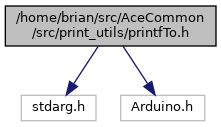
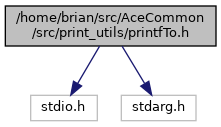
docs: Regenerate doxygen docs for v1.1.2

diff --git a/docs/html/printfTo_8h_source.html b/docs/html/printfTo_8h_source.html
@@ -22,7 +22,7 @@
  <tr style="height: 56px;">
   <td id="projectalign" style="padding-left: 0.5em;">
    <div id="projectname">AceCommon
-   &#160;<span id="projectnumber">1.1.1</span>
+   &#160;<span id="projectnumber">1.1.2</span>
    </div>
    <div id="projectbrief">Arduino library for low-level common functions and features with no external dependencies</div>
   </td>
@@ -76,36 +76,38 @@ $(function() {
 <div class="line"><a name="l00003"></a><span class="lineno">    3</span>&#160;<span class="comment"> * Copyright (c) 2018 Brian T. Park</span></div>
 <div class="line"><a name="l00004"></a><span class="lineno">    4</span>&#160;<span class="comment"> */</span></div>
 <div class="line"><a name="l00005"></a><span class="lineno">    5</span>&#160; </div>
-<div class="line"><a name="l00027"></a><span class="lineno">   27</span>&#160;<span class="preprocessor">#ifndef PRINT_UTILS_PRINTF_TO_H</span></div>
-<div class="line"><a name="l00028"></a><span class="lineno">   28</span>&#160;<span class="preprocessor">#define PRINT_UTILS_PRINTF_TO_H</span></div>
-<div class="line"><a name="l00029"></a><span class="lineno">   29</span>&#160; </div>
-<div class="line"><a name="l00030"></a><span class="lineno">   30</span>&#160;<span class="preprocessor">#include &lt;stdarg.h&gt;</span></div>
-<div class="line"><a name="l00031"></a><span class="lineno">   31</span>&#160;<span class="preprocessor">#include &lt;Arduino.h&gt;</span></div>
-<div class="line"><a name="l00032"></a><span class="lineno">   32</span>&#160; </div>
-<div class="line"><a name="l00033"></a><span class="lineno">   33</span>&#160;<span class="keyword">namespace </span>ace_common {</div>
-<div class="line"><a name="l00034"></a><span class="lineno">   34</span>&#160; </div>
-<div class="line"><a name="l00036"></a><span class="lineno"><a class="line" href="printfTo_8h.html#aeee5840791173d6b3005363ca8a46f77">   36</a></span>&#160;<span class="keyword">const</span> <span class="keywordtype">int</span> <a class="code" href="printfTo_8h.html#aeee5840791173d6b3005363ca8a46f77">PRINTF_TO_BUF_SIZE</a> = 192;</div>
-<div class="line"><a name="l00037"></a><span class="lineno">   37</span>&#160; </div>
-<div class="line"><a name="l00039"></a><span class="lineno"><a class="line" href="printfTo_8h.html#a55806a89862d8c7652712c39e763d03c">   39</a></span>&#160;<span class="keyword">inline</span> <span class="keywordtype">void</span> <a class="code" href="printfTo_8h.html#a55806a89862d8c7652712c39e763d03c">vprintfTo</a>(Print&amp; printer, <span class="keyword">const</span> <span class="keywordtype">char</span> *fmt, va_list args) {</div>
-<div class="line"><a name="l00040"></a><span class="lineno">   40</span>&#160;  <span class="keywordtype">char</span> buf[<a class="code" href="printfTo_8h.html#aeee5840791173d6b3005363ca8a46f77">PRINTF_TO_BUF_SIZE</a>];</div>
-<div class="line"><a name="l00041"></a><span class="lineno">   41</span>&#160;  vsnprintf(buf, <a class="code" href="printfTo_8h.html#aeee5840791173d6b3005363ca8a46f77">PRINTF_TO_BUF_SIZE</a>, fmt, args);</div>
-<div class="line"><a name="l00042"></a><span class="lineno">   42</span>&#160;  printer.print(buf);</div>
-<div class="line"><a name="l00043"></a><span class="lineno">   43</span>&#160;}</div>
-<div class="line"><a name="l00044"></a><span class="lineno">   44</span>&#160; </div>
-<div class="line"><a name="l00051"></a><span class="lineno"><a class="line" href="printfTo_8h.html#a949d471f69eb4bc1f18d474e531ac5f3">   51</a></span>&#160;<span class="keyword">inline</span> <span class="keywordtype">void</span> <a class="code" href="printfTo_8h.html#a949d471f69eb4bc1f18d474e531ac5f3">printfTo</a>(Print&amp; printer, <span class="keyword">const</span> <span class="keywordtype">char</span>* fmt, ...) {</div>
-<div class="line"><a name="l00052"></a><span class="lineno">   52</span>&#160;  va_list args;</div>
-<div class="line"><a name="l00053"></a><span class="lineno">   53</span>&#160;  va_start(args, fmt);</div>
-<div class="line"><a name="l00054"></a><span class="lineno">   54</span>&#160;  <a class="code" href="printfTo_8h.html#a55806a89862d8c7652712c39e763d03c">vprintfTo</a>(printer, fmt, args);</div>
-<div class="line"><a name="l00055"></a><span class="lineno">   55</span>&#160;  va_end(args);</div>
-<div class="line"><a name="l00056"></a><span class="lineno">   56</span>&#160;}</div>
-<div class="line"><a name="l00057"></a><span class="lineno">   57</span>&#160; </div>
-<div class="line"><a name="l00058"></a><span class="lineno">   58</span>&#160;}</div>
-<div class="line"><a name="l00059"></a><span class="lineno">   59</span>&#160; </div>
-<div class="line"><a name="l00060"></a><span class="lineno">   60</span>&#160;<span class="preprocessor">#endif</span></div>
+<div class="line"><a name="l00033"></a><span class="lineno">   33</span>&#160;<span class="preprocessor">#ifndef PRINT_UTILS_PRINTF_TO_H</span></div>
+<div class="line"><a name="l00034"></a><span class="lineno">   34</span>&#160;<span class="preprocessor">#define PRINT_UTILS_PRINTF_TO_H</span></div>
+<div class="line"><a name="l00035"></a><span class="lineno">   35</span>&#160; </div>
+<div class="line"><a name="l00036"></a><span class="lineno">   36</span>&#160;<span class="preprocessor">#include &lt;stdio.h&gt;</span> <span class="comment">// vsnprintf()</span></div>
+<div class="line"><a name="l00037"></a><span class="lineno">   37</span>&#160;<span class="preprocessor">#include &lt;stdarg.h&gt;</span> <span class="comment">// va_list, va_start(), va_end()</span></div>
+<div class="line"><a name="l00038"></a><span class="lineno">   38</span>&#160; </div>
+<div class="line"><a name="l00039"></a><span class="lineno">   39</span>&#160;<span class="keyword">class </span>Print;</div>
+<div class="line"><a name="l00040"></a><span class="lineno">   40</span>&#160; </div>
+<div class="line"><a name="l00041"></a><span class="lineno">   41</span>&#160;<span class="keyword">namespace </span>ace_common {</div>
+<div class="line"><a name="l00042"></a><span class="lineno">   42</span>&#160; </div>
+<div class="line"><a name="l00044"></a><span class="lineno"><a class="line" href="printfTo_8h.html#aeee5840791173d6b3005363ca8a46f77">   44</a></span>&#160;<span class="keyword">const</span> <span class="keywordtype">int</span> <a class="code" href="printfTo_8h.html#aeee5840791173d6b3005363ca8a46f77">PRINTF_TO_BUF_SIZE</a> = 192;</div>
+<div class="line"><a name="l00045"></a><span class="lineno">   45</span>&#160; </div>
+<div class="line"><a name="l00047"></a><span class="lineno"><a class="line" href="printfTo_8h.html#a55806a89862d8c7652712c39e763d03c">   47</a></span>&#160;<span class="keyword">inline</span> <span class="keywordtype">void</span> <a class="code" href="printfTo_8h.html#a55806a89862d8c7652712c39e763d03c">vprintfTo</a>(Print&amp; printer, <span class="keyword">const</span> <span class="keywordtype">char</span> *fmt, va_list args) {</div>
+<div class="line"><a name="l00048"></a><span class="lineno">   48</span>&#160;  <span class="keywordtype">char</span> buf[<a class="code" href="printfTo_8h.html#aeee5840791173d6b3005363ca8a46f77">PRINTF_TO_BUF_SIZE</a>];</div>
+<div class="line"><a name="l00049"></a><span class="lineno">   49</span>&#160;  vsnprintf(buf, <a class="code" href="printfTo_8h.html#aeee5840791173d6b3005363ca8a46f77">PRINTF_TO_BUF_SIZE</a>, fmt, args);</div>
+<div class="line"><a name="l00050"></a><span class="lineno">   50</span>&#160;  printer.print(buf);</div>
+<div class="line"><a name="l00051"></a><span class="lineno">   51</span>&#160;}</div>
+<div class="line"><a name="l00052"></a><span class="lineno">   52</span>&#160; </div>
+<div class="line"><a name="l00059"></a><span class="lineno"><a class="line" href="printfTo_8h.html#a949d471f69eb4bc1f18d474e531ac5f3">   59</a></span>&#160;<span class="keyword">inline</span> <span class="keywordtype">void</span> <a class="code" href="printfTo_8h.html#a949d471f69eb4bc1f18d474e531ac5f3">printfTo</a>(Print&amp; printer, <span class="keyword">const</span> <span class="keywordtype">char</span>* fmt, ...) {</div>
+<div class="line"><a name="l00060"></a><span class="lineno">   60</span>&#160;  va_list args;</div>
+<div class="line"><a name="l00061"></a><span class="lineno">   61</span>&#160;  va_start(args, fmt);</div>
+<div class="line"><a name="l00062"></a><span class="lineno">   62</span>&#160;  <a class="code" href="printfTo_8h.html#a55806a89862d8c7652712c39e763d03c">vprintfTo</a>(printer, fmt, args);</div>
+<div class="line"><a name="l00063"></a><span class="lineno">   63</span>&#160;  va_end(args);</div>
+<div class="line"><a name="l00064"></a><span class="lineno">   64</span>&#160;}</div>
+<div class="line"><a name="l00065"></a><span class="lineno">   65</span>&#160; </div>
+<div class="line"><a name="l00066"></a><span class="lineno">   66</span>&#160;}</div>
+<div class="line"><a name="l00067"></a><span class="lineno">   67</span>&#160; </div>
+<div class="line"><a name="l00068"></a><span class="lineno">   68</span>&#160;<span class="preprocessor">#endif</span></div>
 </div><!-- fragment --></div><!-- contents -->
-<div class="ttc" id="aprintfTo_8h_html_a55806a89862d8c7652712c39e763d03c"><div class="ttname"><a href="printfTo_8h.html#a55806a89862d8c7652712c39e763d03c">ace_common::vprintfTo</a></div><div class="ttdeci">void vprintfTo(Print &amp;printer, const char *fmt, va_list args)</div><div class="ttdoc">Helper function for implementing the printfTo() function.</div><div class="ttdef"><b>Definition:</b> <a href="printfTo_8h_source.html#l00039">printfTo.h:39</a></div></div>
-<div class="ttc" id="aprintfTo_8h_html_aeee5840791173d6b3005363ca8a46f77"><div class="ttname"><a href="printfTo_8h.html#aeee5840791173d6b3005363ca8a46f77">ace_common::PRINTF_TO_BUF_SIZE</a></div><div class="ttdeci">const int PRINTF_TO_BUF_SIZE</div><div class="ttdoc">Maximum size of the internal stack buffer used by printfTo().</div><div class="ttdef"><b>Definition:</b> <a href="printfTo_8h_source.html#l00036">printfTo.h:36</a></div></div>
-<div class="ttc" id="aprintfTo_8h_html_a949d471f69eb4bc1f18d474e531ac5f3"><div class="ttname"><a href="printfTo_8h.html#a949d471f69eb4bc1f18d474e531ac5f3">ace_common::printfTo</a></div><div class="ttdeci">void printfTo(Print &amp;printer, const char *fmt,...)</div><div class="ttdoc">A printf() that works on an Arduino Print object using the built-in vsnprintf().</div><div class="ttdef"><b>Definition:</b> <a href="printfTo_8h_source.html#l00051">printfTo.h:51</a></div></div>
+<div class="ttc" id="aprintfTo_8h_html_a55806a89862d8c7652712c39e763d03c"><div class="ttname"><a href="printfTo_8h.html#a55806a89862d8c7652712c39e763d03c">ace_common::vprintfTo</a></div><div class="ttdeci">void vprintfTo(Print &amp;printer, const char *fmt, va_list args)</div><div class="ttdoc">Helper function for implementing the printfTo() function.</div><div class="ttdef"><b>Definition:</b> <a href="printfTo_8h_source.html#l00047">printfTo.h:47</a></div></div>
+<div class="ttc" id="aprintfTo_8h_html_aeee5840791173d6b3005363ca8a46f77"><div class="ttname"><a href="printfTo_8h.html#aeee5840791173d6b3005363ca8a46f77">ace_common::PRINTF_TO_BUF_SIZE</a></div><div class="ttdeci">const int PRINTF_TO_BUF_SIZE</div><div class="ttdoc">Maximum size of the internal stack buffer used by printfTo().</div><div class="ttdef"><b>Definition:</b> <a href="printfTo_8h_source.html#l00044">printfTo.h:44</a></div></div>
+<div class="ttc" id="aprintfTo_8h_html_a949d471f69eb4bc1f18d474e531ac5f3"><div class="ttname"><a href="printfTo_8h.html#a949d471f69eb4bc1f18d474e531ac5f3">ace_common::printfTo</a></div><div class="ttdeci">void printfTo(Print &amp;printer, const char *fmt,...)</div><div class="ttdoc">A printf() that works on an Arduino Print object using the built-in vsnprintf().</div><div class="ttdef"><b>Definition:</b> <a href="printfTo_8h_source.html#l00059">printfTo.h:59</a></div></div>
 <!-- start footer part -->
 <hr class="footer"/><address class="footer"><small>
 Generated by &#160;<a href="http://www.doxygen.org/index.html">

diff --git a/docs/html/printfTo_8h.html b/docs/html/printfTo_8h.html
@@ -22,7 +22,7 @@
  <tr style="height: 56px;">
   <td id="projectalign" style="padding-left: 0.5em;">
    <div id="projectname">AceCommon
-   &#160;<span id="projectnumber">1.1.1</span>
+   &#160;<span id="projectnumber">1.1.2</span>
    </div>
    <div id="projectbrief">Arduino library for low-level common functions and features with no external dependencies</div>
   </td>
@@ -74,16 +74,16 @@ $(function() {
 <div class="title">printfTo.h File Reference</div>  </div>
 </div><!--header-->
 <div class="contents">
-<div class="textblock"><code>#include &lt;stdarg.h&gt;</code><br />
-<code>#include &lt;Arduino.h&gt;</code><br />
+<div class="textblock"><code>#include &lt;stdio.h&gt;</code><br />
+<code>#include &lt;stdarg.h&gt;</code><br />
 </div><div class="textblock"><div class="dynheader">
 Include dependency graph for printfTo.h:</div>
 <div class="dyncontent">
 <div class="center"><img src="printfTo_8h__incl.png" border="0" usemap="#_2home_2brian_2src_2AceCommon_2src_2print__utils_2printfTo_8h" alt=""/></div>
 <map name="_2home_2brian_2src_2AceCommon_2src_2print__utils_2printfTo_8h" id="_2home_2brian_2src_2AceCommon_2src_2print__utils_2printfTo_8h">
 <area shape="rect" title=" " alt="" coords="5,5,216,47"/>
-<area shape="rect" title=" " alt="" coords="21,95,96,121"/>
-<area shape="rect" title=" " alt="" coords="121,95,205,121"/>
+<area shape="rect" title=" " alt="" coords="31,95,97,121"/>
+<area shape="rect" title=" " alt="" coords="121,95,196,121"/>
 </map>
 </div>
 </div><div class="textblock"><div class="dynheader">
@@ -117,8 +117,9 @@ const int&#160;</td><td class="memItemRight" valign="bottom"><a class="el" href=
 </table>
 <a name="details" id="details"></a><h2 class="groupheader">Detailed Description</h2>
 <div class="textblock"><p>Implement a <a class="el" href="printfTo_8h.html#a949d471f69eb4bc1f18d474e531ac5f3" title="A printf() that works on an Arduino Print object using the built-in vsnprintf().">printfTo()</a> that accept formatting strings like printf() and prints the result to the given <code>Print</code> object. This is intended to be used on platforms whose <code>Print</code> does not provide a <code>Print.printf()</code> function, for example, the original Arduino UNO or Nano. I finally got tired of writing multiple lines of SERIAL_PORT_MONITOR.print() for debugging.</p>
+<p>The implementation uses an fixed size char[] buffer on the stack that is defined to be of length PRINTF_TO_BUF_SIZE, which is current 192. That should be enough for most debugging uses. It would be more robust if the format string was interpreted by the method to avoid that buffer. But this function is intended only for debugging purposes. For "production" deployments, this function should be disabled through an <code>#if</code> statement.</p>
 <p>NOTE: These <em>must</em> be implemented as inline function to allow the compiler to remove unused functions from the binary. For some reason, on AVR, ESP8266 and ESP32 compilers, link-time-optimization does not seem to work well. If these functions are defined in a .cpp file, they are included in the binary, even if they are not reference at all by anything. This causes the binary to be about 700 (AVR) to 1000 (ESP32) bytes larger in flash memory.</p>
-<p>Being inlined here means that &lt;Arduino.h&gt; must be included here, which can cause some problems in files that try to clobber macros defined in &lt;Arduino.h&gt;. </p>
+<p>It looks like &lt;stdio.h&gt; is the header to get vsnprintf(), so we no longer need to include &lt;Arduino.h&gt; here. </p>
 
 <p class="definition">Definition in file <a class="el" href="printfTo_8h_source.html">printfTo.h</a>.</p>
 </div><h2 class="groupheader">Function Documentation</h2>
@@ -165,7 +166,7 @@ const int&#160;</td><td class="memItemRight" valign="bottom"><a class="el" href=
 <p>A printf() that works on an Arduino <code>Print</code> object using the built-in vsnprintf(). </p>
 <p>Append a '\n' at the end of the string to print a newline. This is intended to be used on platforms without a built-in <code>Print.printf()</code> function, for example, the original Arduino UNO or Nano. </p>
 
-<p class="definition">Definition at line <a class="el" href="printfTo_8h_source.html#l00051">51</a> of file <a class="el" href="printfTo_8h_source.html">printfTo.h</a>.</p>
+<p class="definition">Definition at line <a class="el" href="printfTo_8h_source.html#l00059">59</a> of file <a class="el" href="printfTo_8h_source.html">printfTo.h</a>.</p>
 
 </div>
 </div>

diff --git a/docs/html/AceCommon_8h_source.html b/docs/html/AceCommon_8h_source.html
@@ -22,7 +22,7 @@
  <tr style="height: 56px;">
   <td id="projectalign" style="padding-left: 0.5em;">
    <div id="projectname">AceCommon
-   &#160;<span id="projectnumber">1.1.1</span>
+   &#160;<span id="projectnumber">1.1.2</span>
    </div>
    <div id="projectbrief">Arduino library for low-level common functions and features with no external dependencies</div>
   </td>
@@ -108,8 +108,8 @@ $(function() {
 <div class="line"><a name="l00042"></a><span class="lineno">   42</span>&#160;<span class="preprocessor">#include &quot;fstrings/FCString.h&quot;</span></div>
 <div class="line"><a name="l00043"></a><span class="lineno">   43</span>&#160; </div>
 <div class="line"><a name="l00044"></a><span class="lineno">   44</span>&#160;<span class="comment">// Version format: &quot;xx.yy.zz&quot; =&gt; xxyyzz (without leading 0)</span></div>
-<div class="line"><a name="l00045"></a><span class="lineno">   45</span>&#160;<span class="preprocessor">#define ACE_COMMON_VERSION 10101</span></div>
-<div class="line"><a name="l00046"></a><span class="lineno">   46</span>&#160;<span class="preprocessor">#define ACE_COMMON_VERSION_STRING &quot;1.1.1&quot;</span></div>
+<div class="line"><a name="l00045"></a><span class="lineno">   45</span>&#160;<span class="preprocessor">#define ACE_COMMON_VERSION 10102</span></div>
+<div class="line"><a name="l00046"></a><span class="lineno">   46</span>&#160;<span class="preprocessor">#define ACE_COMMON_VERSION_STRING &quot;1.1.2&quot;</span></div>
 <div class="line"><a name="l00047"></a><span class="lineno">   47</span>&#160; </div>
 <div class="line"><a name="l00048"></a><span class="lineno">   48</span>&#160;<span class="preprocessor">#endif</span></div>
 </div><!-- fragment --></div><!-- contents -->

diff --git a/docs/html/md__home_brian_src_AceCommon_src_print_str_README.html b/docs/html/md__home_brian_src_AceCommon_src_print_str_README.html
@@ -22,7 +22,7 @@
  <tr style="height: 56px;">
   <td id="projectalign" style="padding-left: 0.5em;">
    <div id="projectname">AceCommon
-   &#160;<span id="projectnumber">1.1.1</span>
+   &#160;<span id="projectnumber">1.1.2</span>
    </div>
    <div id="projectbrief">Arduino library for low-level common functions and features with no external dependencies</div>
   </td>
@@ -152,7 +152,10 @@ $(function() {
 <div class="line">  buildMessage(message);</div>
 <div class="line">  ...</div>
 <div class="line">}</div>
-</div><!-- fragment --> </div></div><!-- contents -->
+</div><!-- fragment --><h1>Alternatives</h1>
+<p>After I had created this utility, I discovered the PrintString (<a href="https://github.com/RobTillaart/PrintString">https://github.com/RobTillaart/PrintString</a>) library which does something similar. The difference is that <code>PrintString</code> is a thin wrapper around a <code>String</code> object, which uses the heap as the buffer, which can cause heap fragmentation. The <code>PrintStr</code> class uses the stack to completely avoid the heap.</p>
+<p>The <code>PrintStrN</code> class uses the heap as the buffer and is closer to the <code>PrintString</code>. The difference is that the <code>PrintStrN</code> uses a fixed size allocation on the heap whereas <code>String</code> will reallocate to grow the buffer on the heap, which can lead to heap fragmentation. </p>
+</div></div><!-- contents -->
 </div><!-- PageDoc -->
 <!-- start footer part -->
 <hr class="footer"/><address class="footer"><small>

diff --git a/docs/html/FCString_8cpp_source.html b/docs/html/FCString_8cpp_source.html
@@ -22,7 +22,7 @@
  <tr style="height: 56px;">
   <td id="projectalign" style="padding-left: 0.5em;">
    <div id="projectname">AceCommon
-   &#160;<span id="projectnumber">1.1.1</span>
+   &#160;<span id="projectnumber">1.1.2</span>
    </div>
    <div id="projectbrief">Arduino library for low-level common functions and features with no external dependencies</div>
   </td>

diff --git a/docs/html/FCString_8h_source.html b/docs/html/FCString_8h_source.html
@@ -22,7 +22,7 @@
  <tr style="height: 56px;">
   <td id="projectalign" style="padding-left: 0.5em;">
    <div id="projectname">AceCommon
-   &#160;<span id="projectnumber">1.1.1</span>
+   &#160;<span id="projectnumber">1.1.2</span>
    </div>
    <div id="projectbrief">Arduino library for low-level common functions and features with no external dependencies</div>
   </td>

diff --git a/docs/html/PrintStr_8h_source.html b/docs/html/PrintStr_8h_source.html
@@ -22,7 +22,7 @@
  <tr style="height: 56px;">
   <td id="projectalign" style="padding-left: 0.5em;">
    <div id="projectname">AceCommon
-   &#160;<span id="projectnumber">1.1.1</span>
+   &#160;<span id="projectnumber">1.1.2</span>
    </div>
    <div id="projectbrief">Arduino library for low-level common functions and features with no external dependencies</div>
   </td>

diff --git a/docs/html/TimingStats_8h_source.html b/docs/html/TimingStats_8h_source.html
@@ -22,7 +22,7 @@
  <tr style="height: 56px;">
   <td id="projectalign" style="padding-left: 0.5em;">
    <div id="projectname">AceCommon
-   &#160;<span id="projectnumber">1.1.1</span>
+   &#160;<span id="projectnumber">1.1.2</span>
    </div>
    <div id="projectbrief">Arduino library for low-level common functions and features with no external dependencies</div>
   </td>

diff --git a/docs/html/annotated.html b/docs/html/annotated.html
@@ -22,7 +22,7 @@
  <tr style="height: 56px;">
   <td id="projectalign" style="padding-left: 0.5em;">
    <div id="projectname">AceCommon
-   &#160;<span id="projectnumber">1.1.1</span>
+   &#160;<span id="projectnumber">1.1.2</span>
    </div>
    <div id="projectbrief">Arduino library for low-level common functions and features with no external dependencies</div>
   </td>

diff --git a/docs/html/arithmetic_8h.html b/docs/html/arithmetic_8h.html
@@ -22,7 +22,7 @@
  <tr style="height: 56px;">
   <td id="projectalign" style="padding-left: 0.5em;">
    <div id="projectname">AceCommon
-   &#160;<span id="projectnumber">1.1.1</span>
+   &#160;<span id="projectnumber">1.1.2</span>
    </div>
    <div id="projectbrief">Arduino library for low-level common functions and features with no external dependencies</div>
   </td>

diff --git a/docs/html/arithmetic_8h_source.html b/docs/html/arithmetic_8h_source.html
@@ -22,7 +22,7 @@
  <tr style="height: 56px;">
   <td id="projectalign" style="padding-left: 0.5em;">
    <div id="projectname">AceCommon
-   &#160;<span id="projectnumber">1.1.1</span>
+   &#160;<span id="projectnumber">1.1.2</span>
    </div>
    <div id="projectbrief">Arduino library for low-level common functions and features with no external dependencies</div>
   </td>

diff --git a/docs/html/classace__common_1_1FCString-members.html b/docs/html/classace__common_1_1FCString-members.html
@@ -22,7 +22,7 @@
  <tr style="height: 56px;">
   <td id="projectalign" style="padding-left: 0.5em;">
    <div id="projectname">AceCommon
-   &#160;<span id="projectnumber">1.1.1</span>
+   &#160;<span id="projectnumber">1.1.2</span>
    </div>
    <div id="projectbrief">Arduino library for low-level common functions and features with no external dependencies</div>
   </td>
